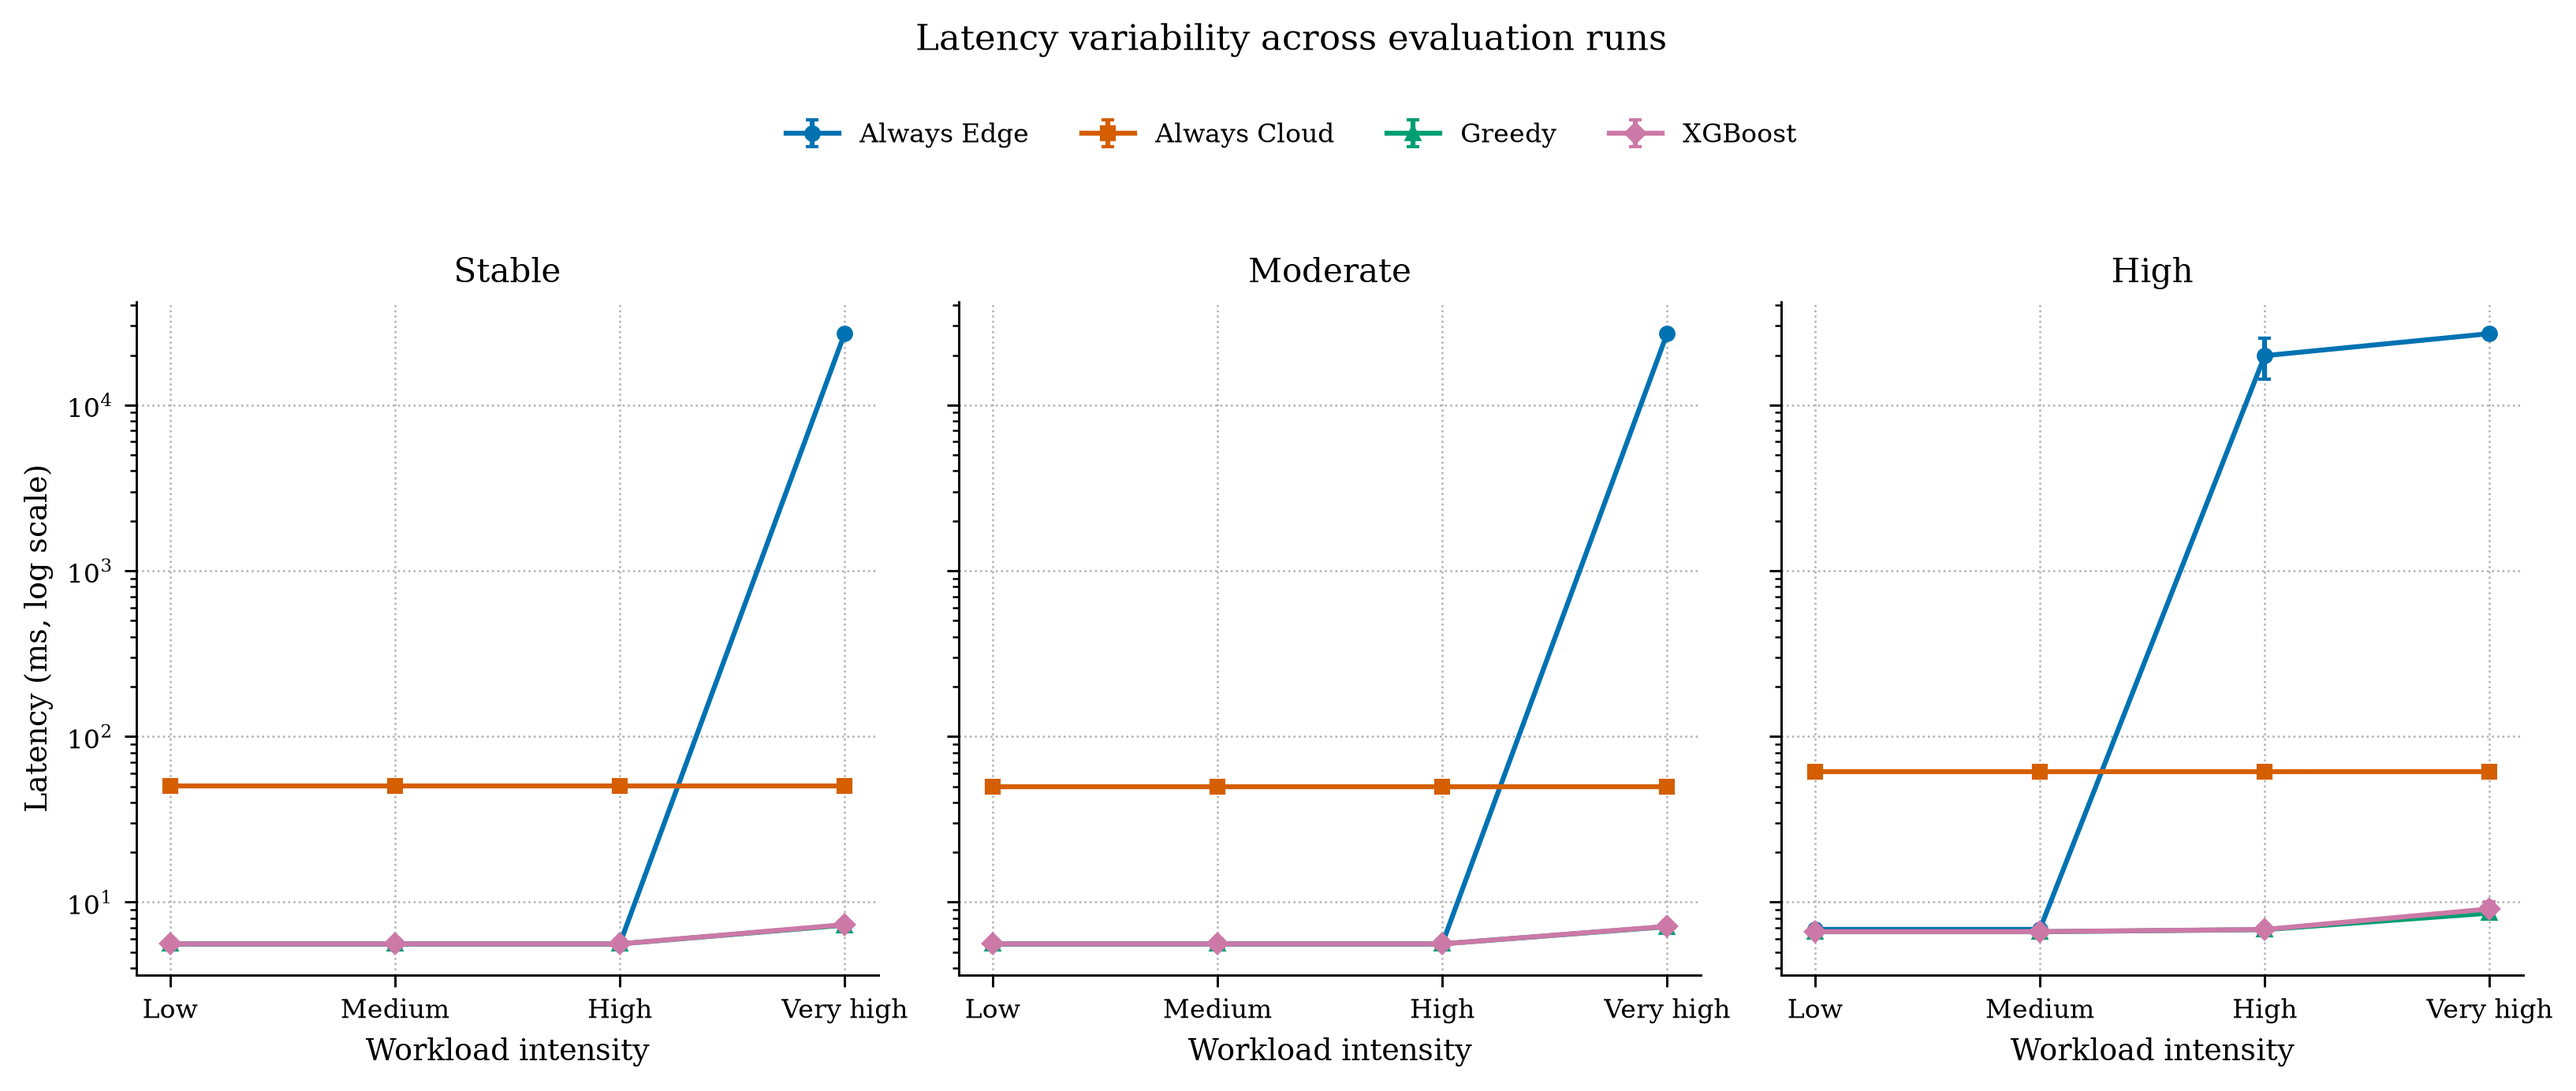
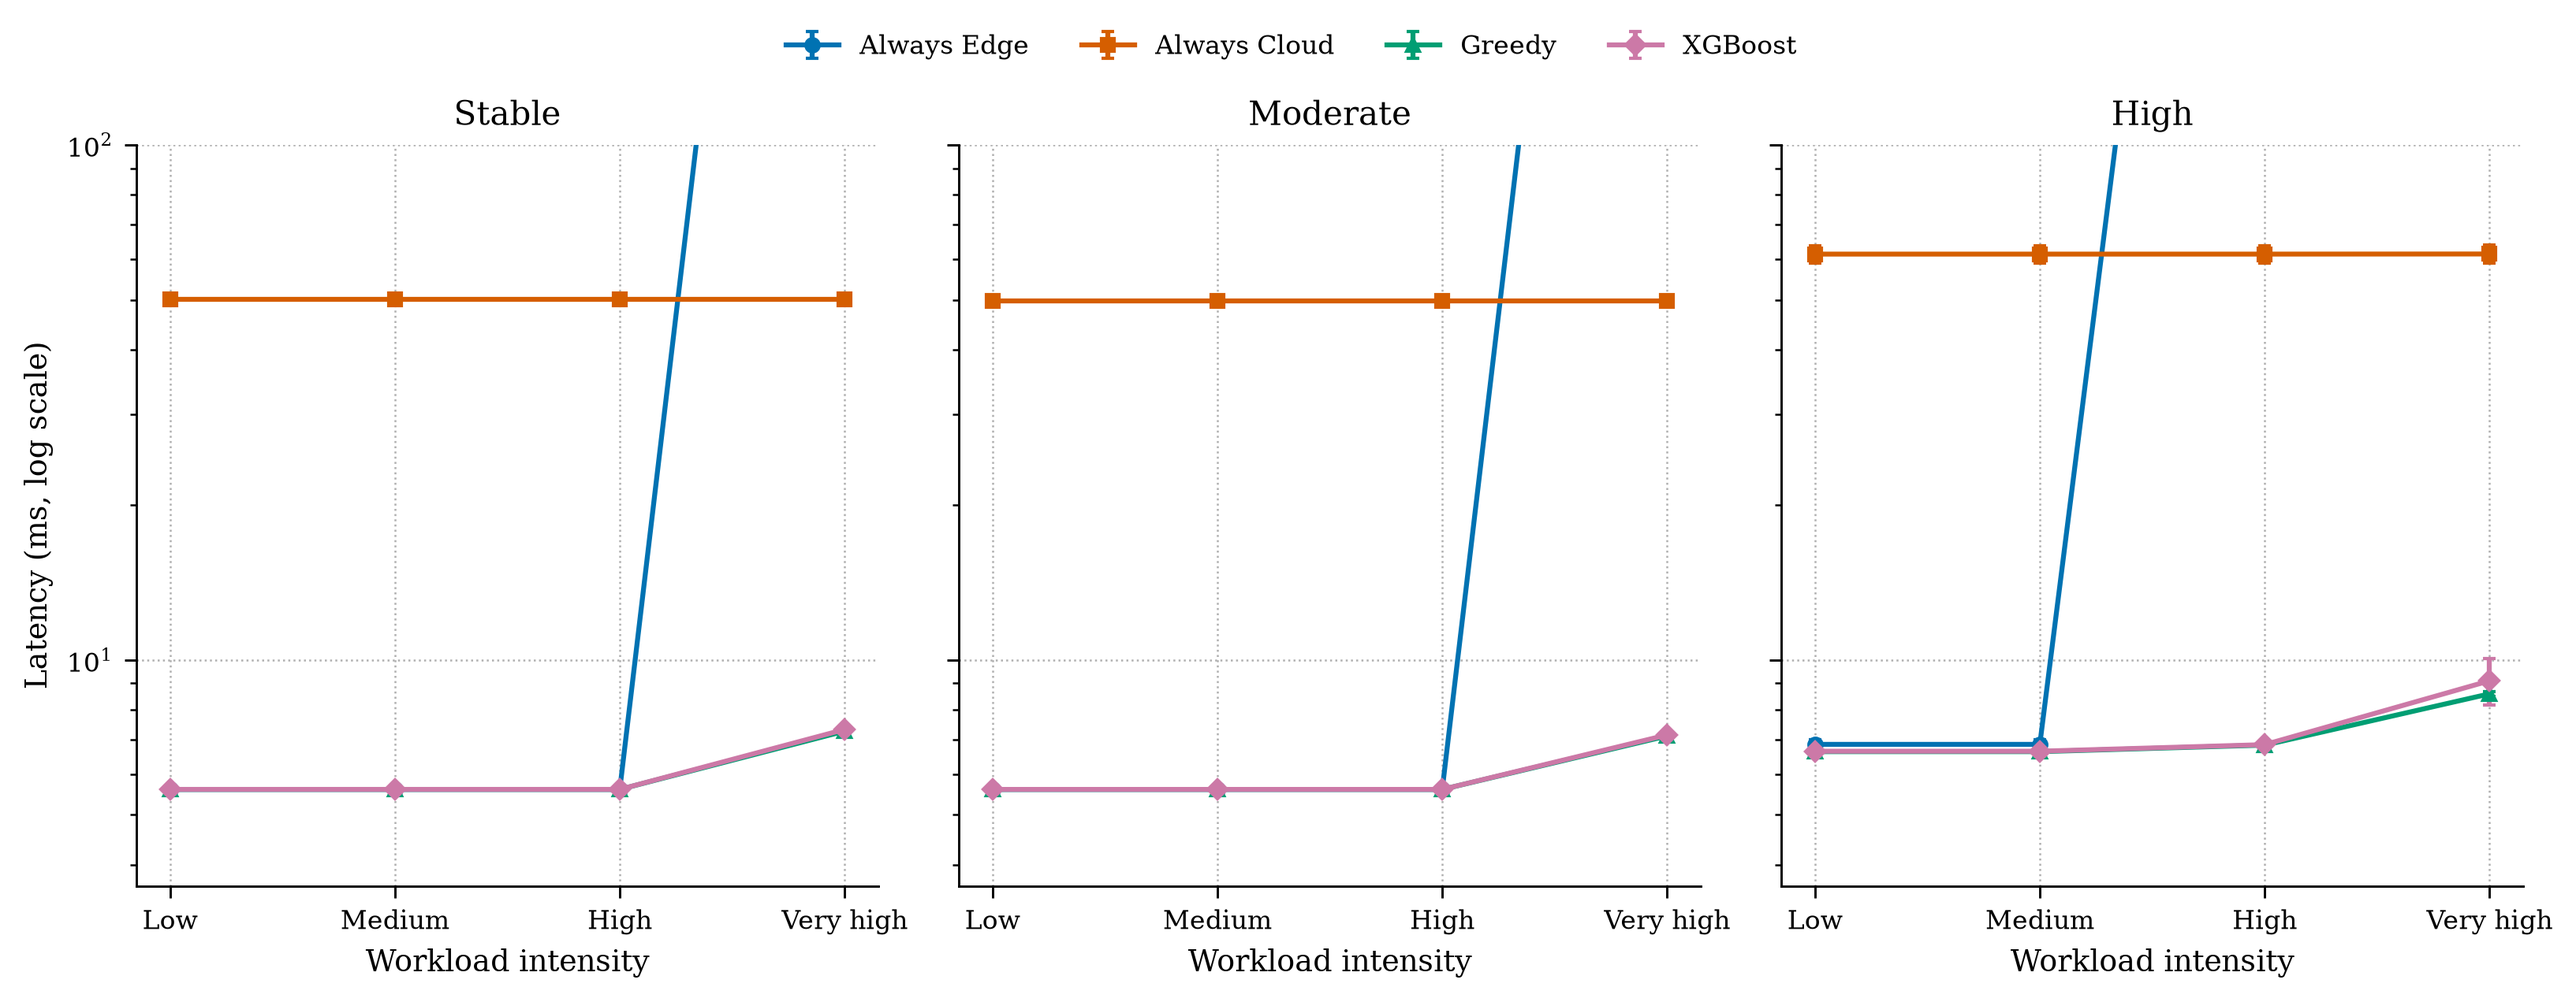
update heatmap plot

diff --git a/experiments/plots/plot_results.py b/experiments/plots/plot_results.py
@@ -3,7 +3,9 @@ from pathlib import Path
 import numpy as np
 import pandas as pd
 import matplotlib.pyplot as plt
+import seaborn as sns
 from matplotlib.colors import LogNorm
+
 
 
 PLOT_DIR = Path(__file__).resolve().parent / "figures"
@@ -80,8 +82,8 @@ def plot_latency_heatmap(df):
         1, 3, figsize=(12, 4.5), sharey=True
     )
 
-    values = df["latency_mean"].to_numpy(dtype=float)
-    positive = values[np.isfinite(values) & (values > 0)]
+    all_values = df["latency_mean"].to_numpy(dtype=float)
+    positive = all_values[np.isfinite(all_values) & (all_values > 0)]
 
     if len(positive) == 0:
         plt.close(fig)
@@ -95,6 +97,7 @@ def plot_latency_heatmap(df):
 
     for ax, condition in zip(axes, CONDITIONS):
         subset = df[df["network_condition"] == condition]
+
         matrix = (
             subset.pivot(
                 index="policy",
@@ -104,35 +107,26 @@ def plot_latency_heatmap(df):
             .reindex(index=POLICIES, columns=LOADS)
         )
 
-        values = matrix.to_numpy(dtype=float)
-        masked = np.ma.masked_invalid(values)
-
-        image = ax.imshow(
-            masked,
-            aspect="auto",
-            cmap="plasma",
+        sns.heatmap(
+            matrix,
+            ax=ax,
+            cmap="crest",
             norm=LogNorm(vmin=vmin, vmax=vmax),
+            annot=True,
+            fmt=".1f",
+            annot_kws={"fontsize": 7},
+            linewidths=0.5,
+            linecolor="white",
+            cbar=False,
         )
 
         ax.set_title(condition.title())
-        ax.set_xticks(range(len(LOADS)))
         ax.set_xticklabels(LOAD_LABELS)
-        ax.set_yticks(range(len(POLICIES)))
-        ax.set_yticklabels(POLICIES)
+        ax.set_yticklabels(POLICIES, rotation=0)
         ax.set_xlabel("Workload intensity")
 
-        for i in range(len(POLICIES)):
-            for j in range(len(LOADS)):
-                value = values[i, j]
-                if np.isfinite(value):
-                    color = "black" if value > np.sqrt(vmin * vmax) else "white"
-                    ax.text(
-                        j, i, f"{value:.1f}",
-                        ha="center", va="center",
-                        fontsize=7, color=color,
-                    )
-
     axes[0].set_ylabel("Scheduling policy")
+
     fig.subplots_adjust(
         left=0.16,
         right=0.88,
@@ -141,9 +135,17 @@ def plot_latency_heatmap(df):
         wspace=0.12,
     )
 
+    # Shared colorbar for all three heatmaps.
     cbar_ax = fig.add_axes([0.90, 0.20, 0.018, 0.56])
+
+    sm = plt.cm.ScalarMappable(
+        norm=LogNorm(vmin=vmin, vmax=vmax),
+        cmap="crest",
+    )
+    sm.set_array([])
+
     fig.colorbar(
-        image,
+        sm,
         cax=cbar_ax,
         label="Mean latency (ms, logarithmic scale)",
     )
@@ -154,6 +156,7 @@ def plot_latency_heatmap(df):
     )
 
     save_figure(fig, "01_latency_heatmap")
+
 
 def plot_xgboost_improvement(df):
     """Positive values indicate lower latency with XGBoost than Greedy."""
@@ -481,15 +484,12 @@ def plot_latency_variability(df, run_df):
         ax.set_xlabel("Workload intensity")
         ax.grid(True, which="major", linestyle=":", linewidth=0.6)
         ax.set_axisbelow(True)
-
+    axes[0].set_ylim(top=100)
     axes[0].set_ylabel("Latency (ms, log scale)")
     handles, labels = axes[0].get_legend_handles_labels()
     fig.legend(
         handles, labels, loc="upper center",
         bbox_to_anchor=(0.5, 1.06), ncol=4, frameon=False,
-    )
-    fig.suptitle(
-        "Latency variability across evaluation runs", y=1.14
     )
     fig.tight_layout()
     save_figure(fig, "06_latency_variability")
@@ -534,7 +534,6 @@ def plot_utilization(df):
         handles, labels, loc="upper center",
         bbox_to_anchor=(0.5, 1.06), ncol=4, frameon=False,
     )
-    fig.suptitle("Resource utilization under increasing workload", y=1.14)
     fig.tight_layout()
     save_figure(fig, "07_resource_utilization")
 

diff --git a/experiments/core_experiments/run_comparison.py b/experiments/core_experiments/run_comparison.py
@@ -11,7 +11,7 @@ from simulation.workload import generate_requests
 from simulation.runner import run_policy
 from ml.xgboost_scheduler import train_model, xgboost_policy
 from ml.dataset import generate_training_data
-from evaluation.results import aggregate_results, metrics_to_dict
+from evaluation.results import metrics_to_dict
 from experiments.plots.plot_results import plot_all_results
 
 
